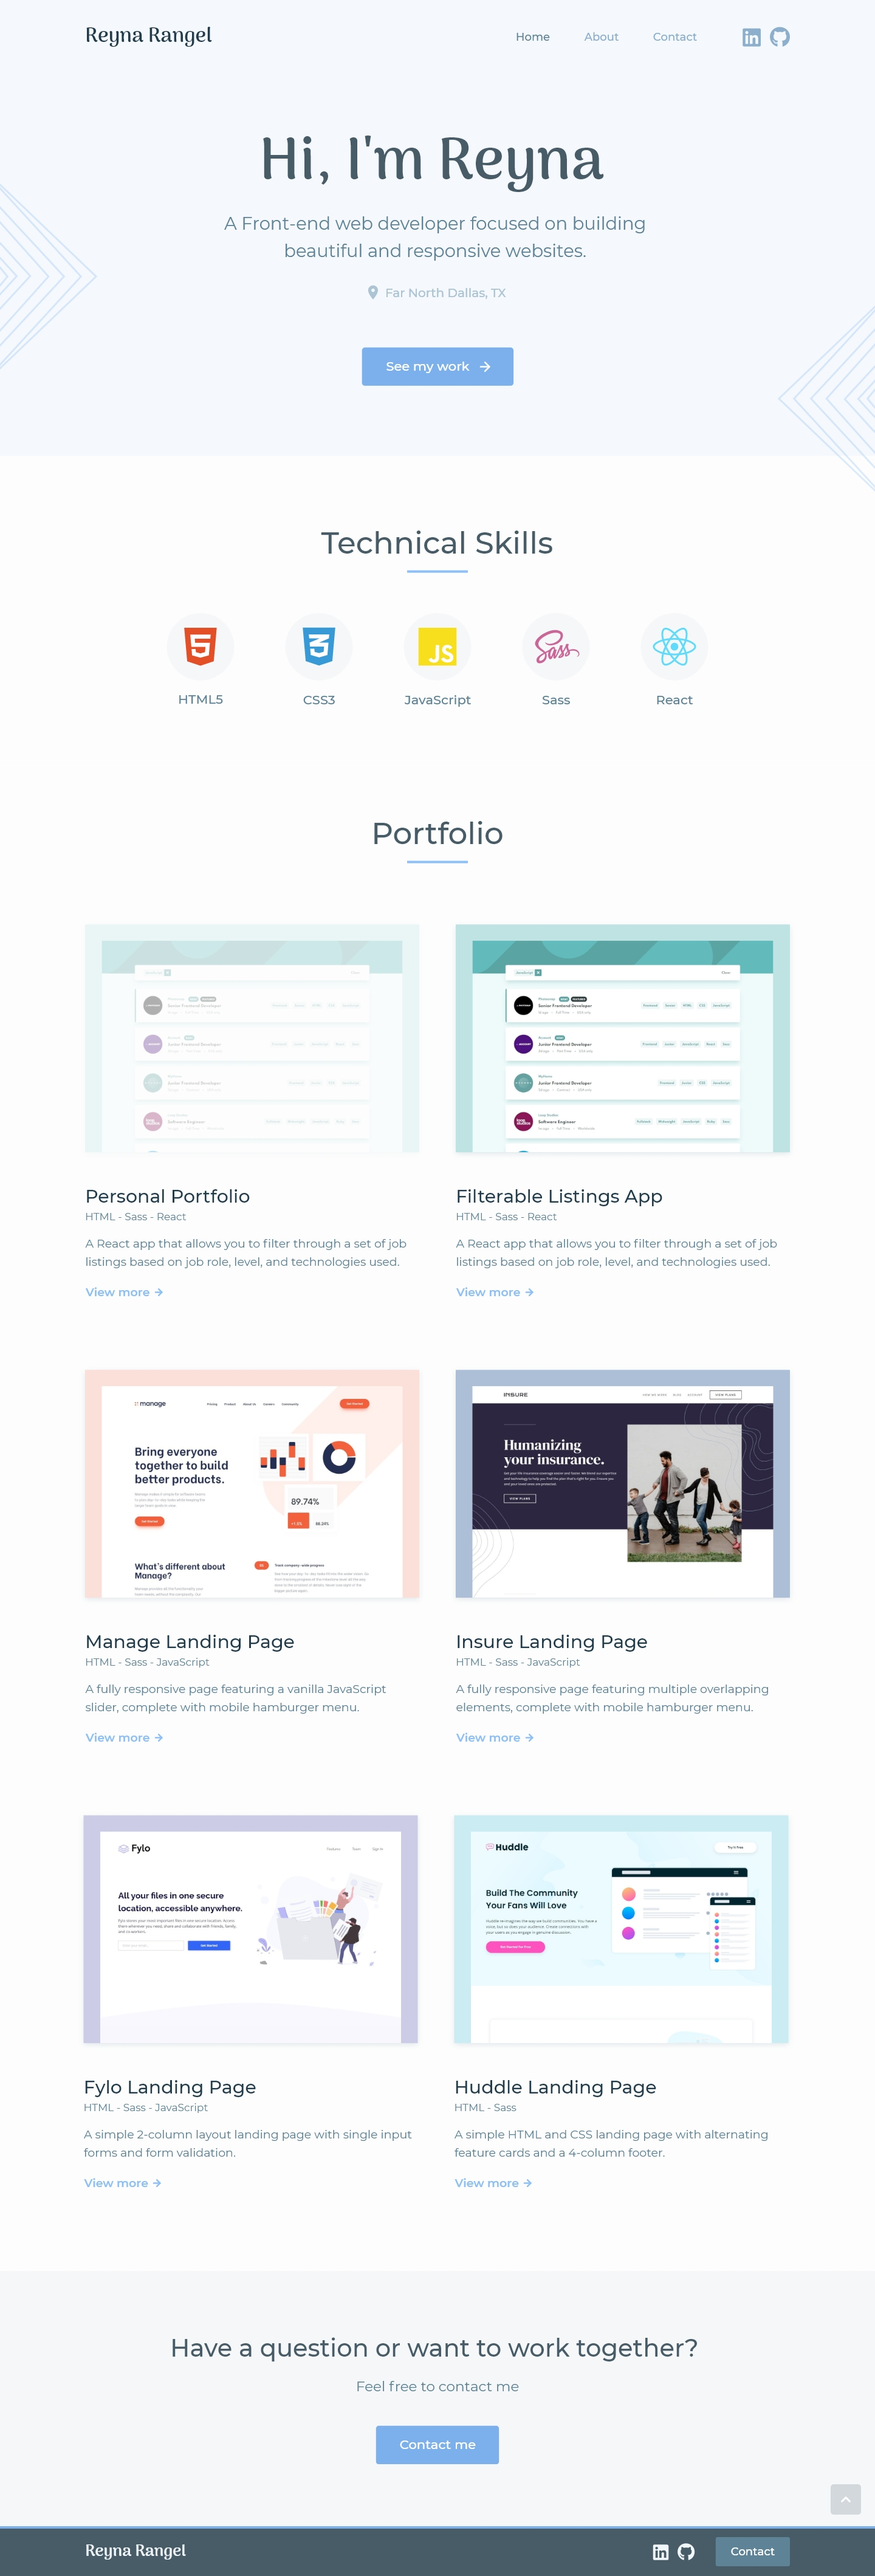
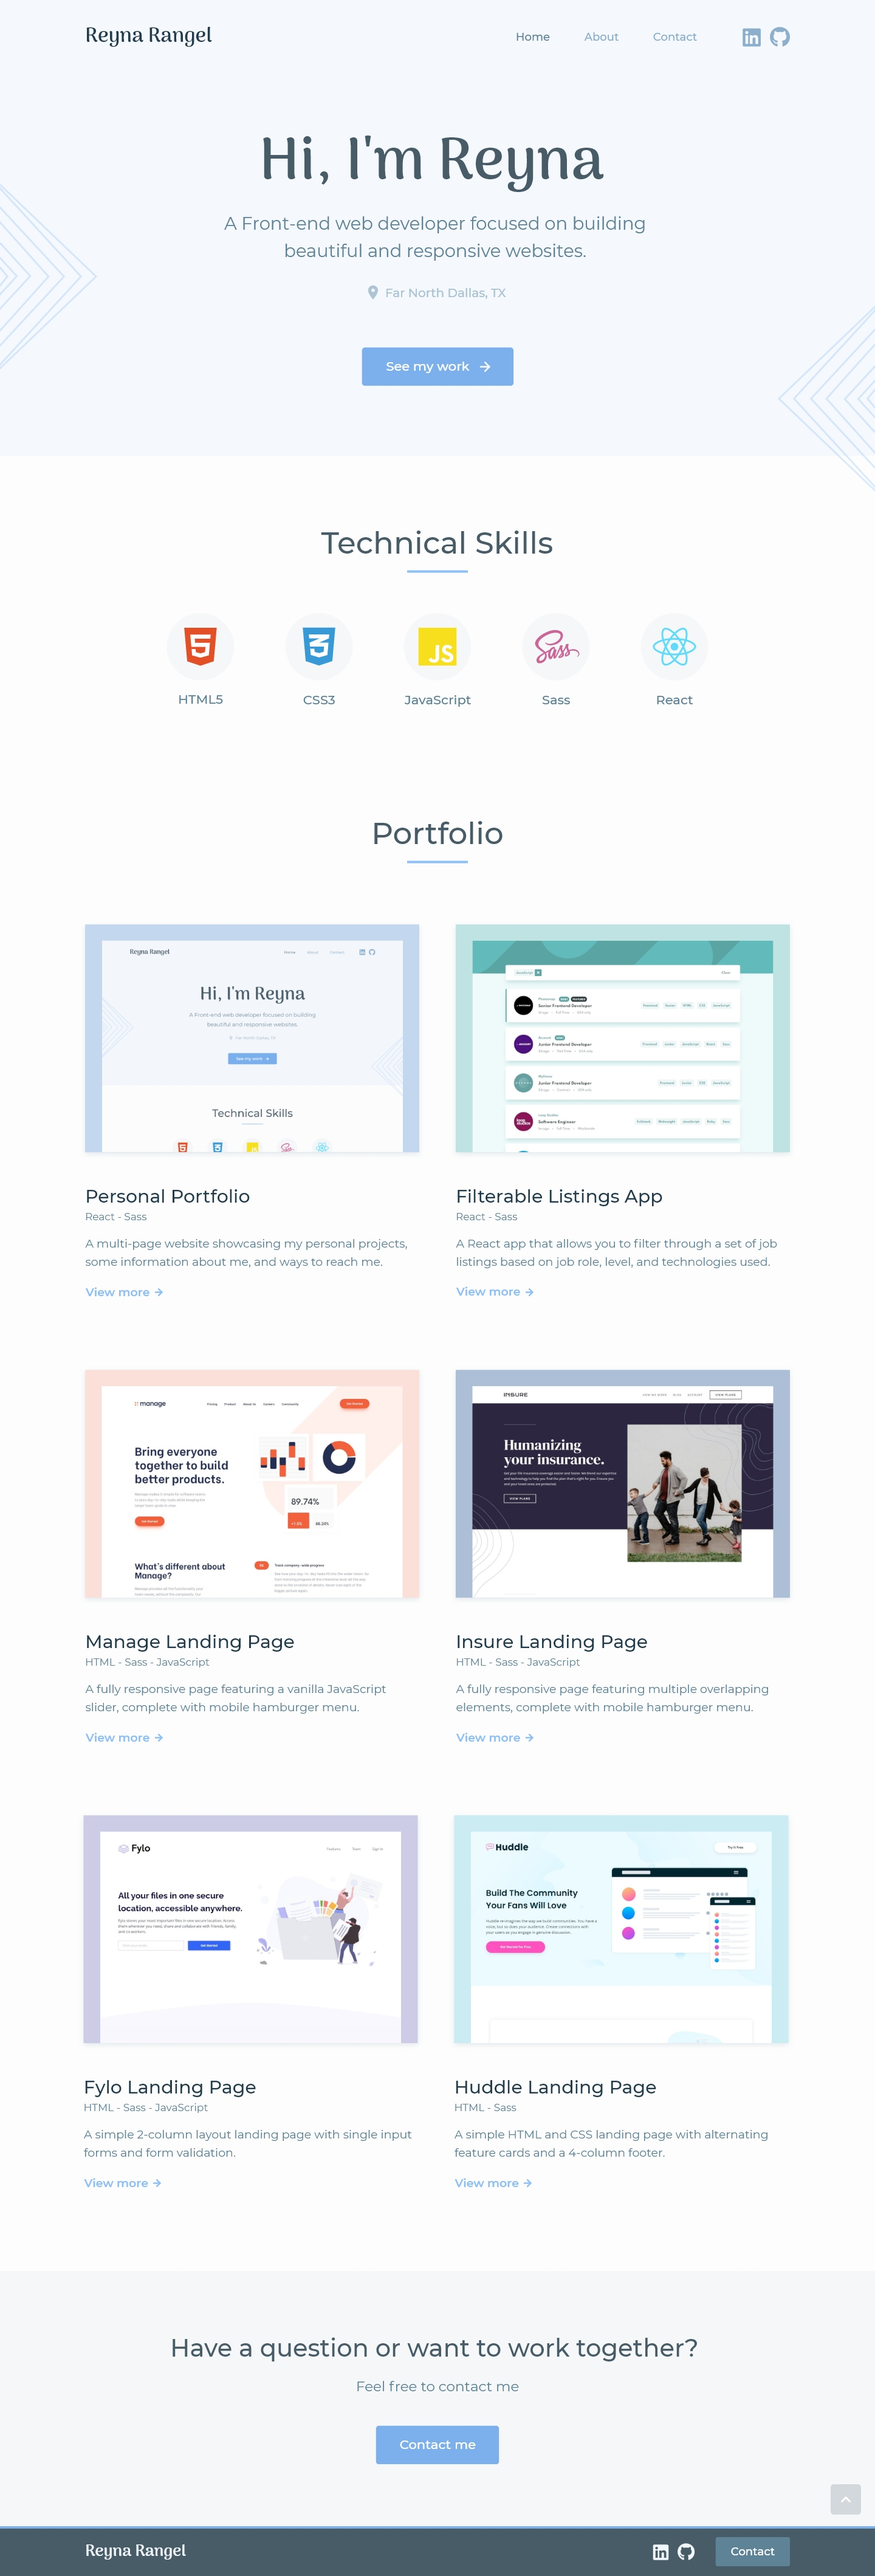
added portfolio project page

Changed region(s): [[0.0938, 0.3425, 0.5, 0.4982], [0.2812, 0.4671, 0.3438, 0.4982]]

diff --git a/src/pages/Home/Projects.js b/src/pages/Home/Projects.js
@@ -1,11 +1,12 @@
 import React, { useState, useEffect } from 'react';
 import { Link } from 'react-router-dom';
 import { FadeInWhenVisible } from 'components';
-import { listings_home, manage_home, insure_home, fylo_home, huddle_home } from 'assets/images';  
+import { portfolio_home, listings_home, manage_home, insure_home, fylo_home, huddle_home } from 'assets/images';  
 import { ReactComponent as ArrowRight } from 'assets/svgs/icon-arrow-right.svg';
 
-// used to call preview imgs dynamically by name, still need to add 'portfolio' 
+// used to call preview imgs dynamically by name  
 const previews = {
+  portfolio_home: portfolio_home,
   listings_home: listings_home,
   manage_home: manage_home,
   insure_home: insure_home,

diff --git a/src/assets/images/index.js b/src/assets/images/index.js
@@ -1,3 +1,4 @@
+export { default as portfolio_home } from './portfolio-home.png';
 export { default as listings_home } from './listings-home.png';
 export { default as manage_home } from './manage-home.png';
 export { default as insure_home } from './insure-home.png';

diff --git a/src/styles/pages/home/_projects-sec.scss b/src/styles/pages/home/_projects-sec.scss
@@ -11,9 +11,6 @@
 
     .project{
         margin-bottom: 60px; 
-        &:first-child{
-            display: none; // will remove 
-        }
         &__preview{
             margin-bottom: 30px; 
             display: block;

diff --git a/src/App.css b/src/App.css
@@ -698,10 +698,6 @@ h2, h3, h4, h5 {
   margin-bottom: 60px;
 }
 
-.home__projects-sec .project:first-child {
-  display: none;
-}
-
 .home__projects-sec .project__preview {
   margin-bottom: 30px;
   display: block;
